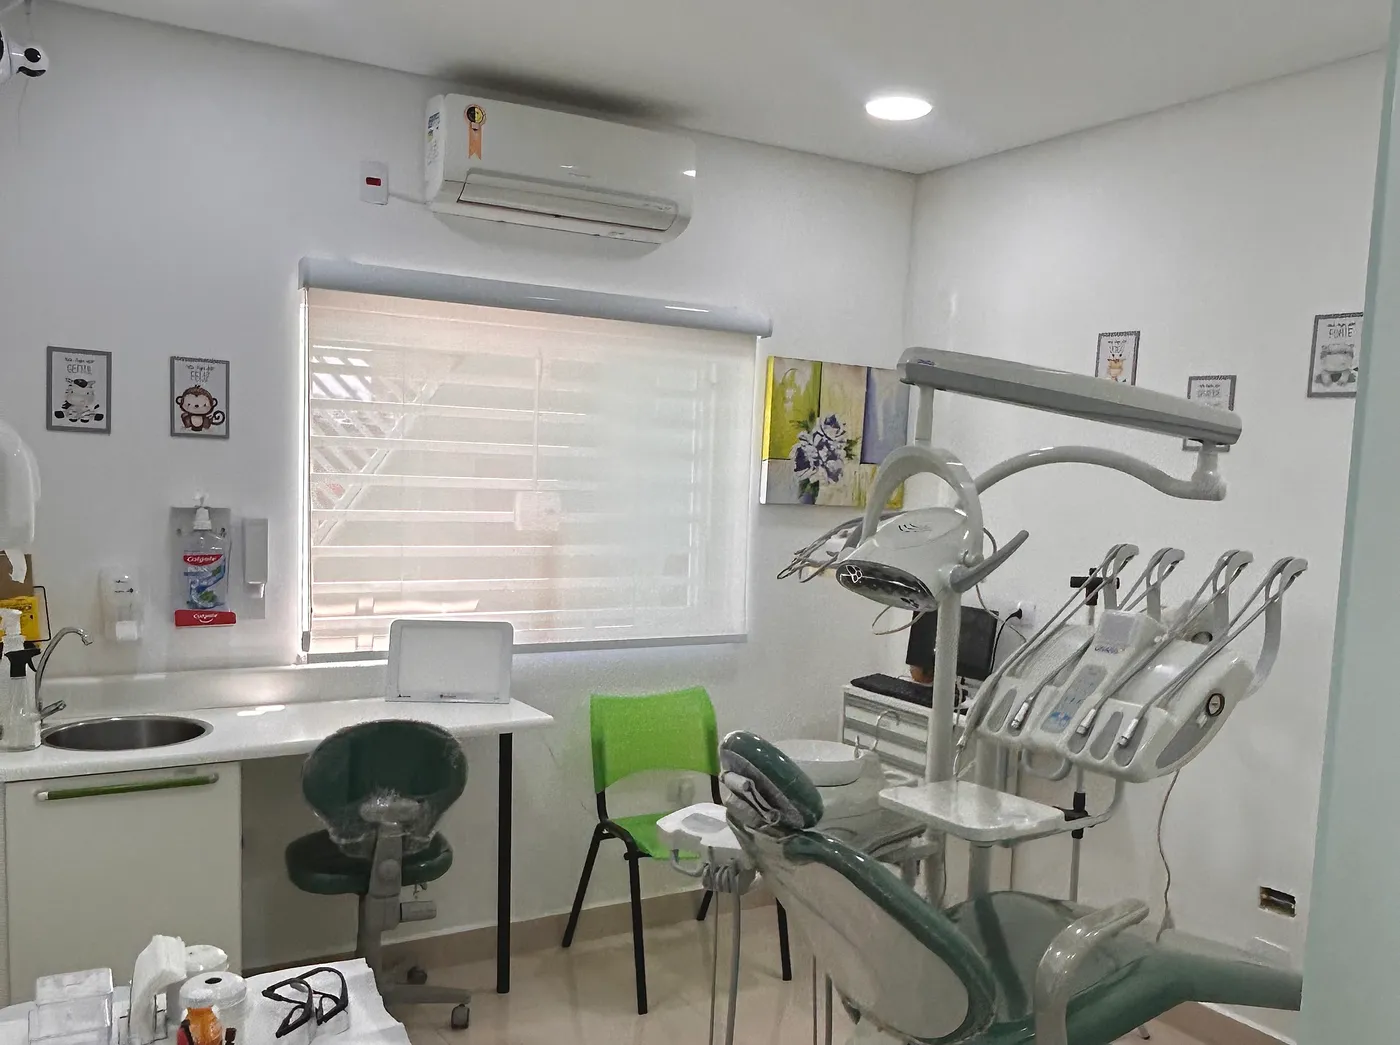
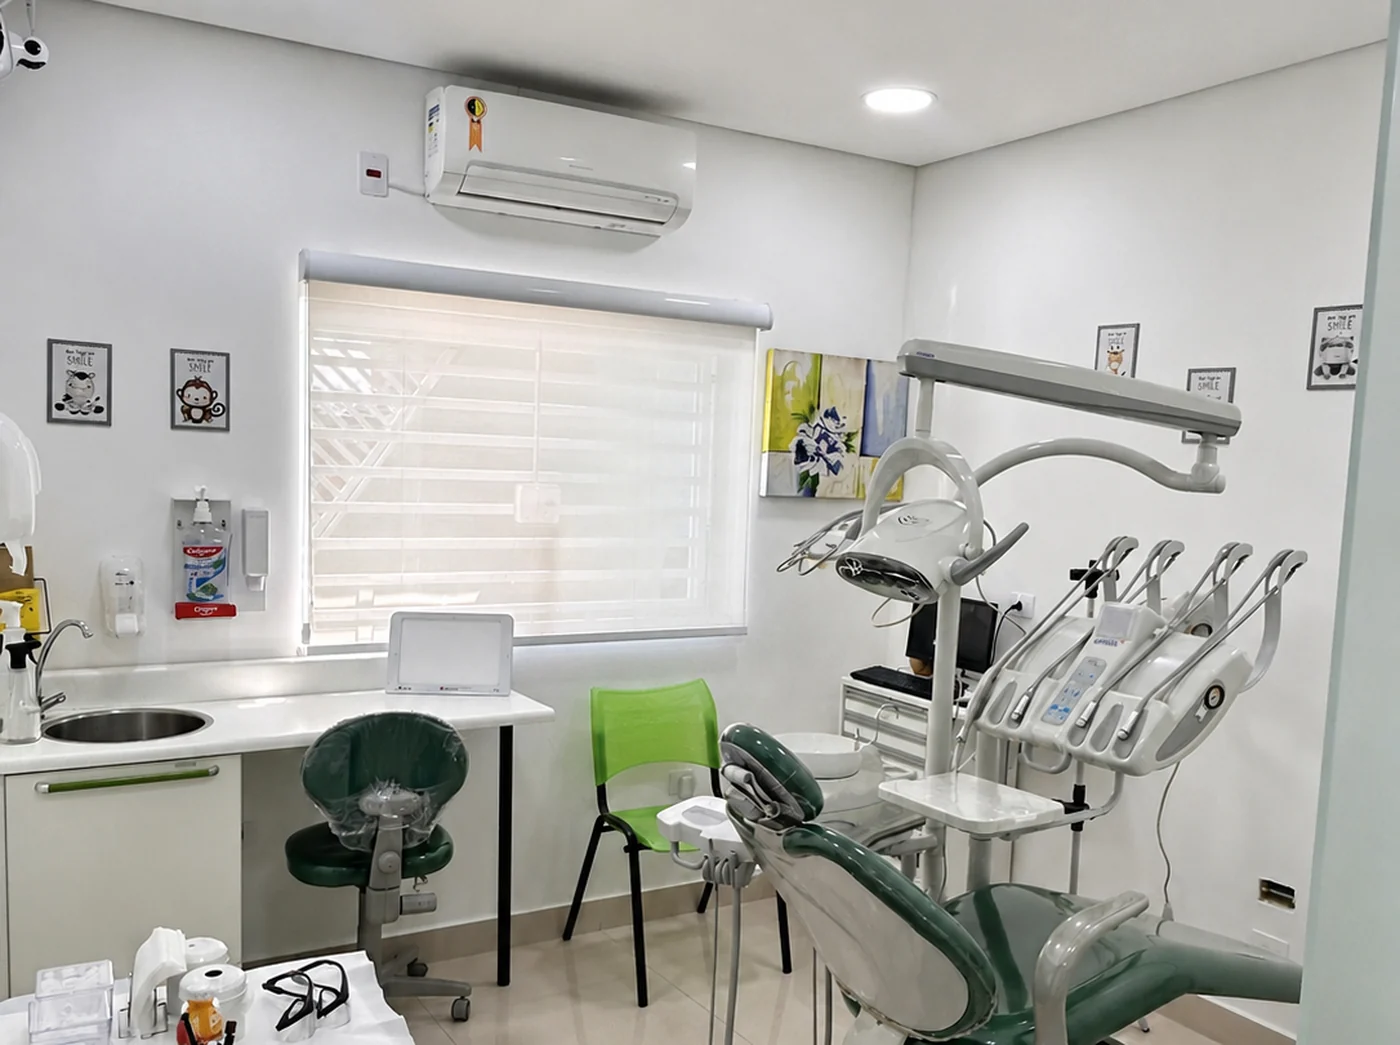
Substitui as 6 imagens dos ambientes e corrige o CRO da responsável técnica
As 6 fotos dos ambientes deram lugar às versões geradas por IA das mesmas
cenas, enviadas pela clínica. Mesmo enquadramento, mesmas dimensões de
arquivo — nada muda no layout. Sumiram a fiação da rua, o céu ficou uniforme
e a iluminação, homogênea.

CRO DA RESPONSÁVEL TÉCNICA

Ao ler a placa da fachada para conferir as imagens, apareceu o problema mais
sério desta rodada: o site publicava CROSP 78.159 no rodapé das 9 rotas,
mas a placa da própria clínica diz CROSP 75.159. Ampliei 8x na foto original
(jp-clinica-odontologica-6.jpg) e depois a imagem nova confirmou o mesmo
número. Corrigido para 75.159 e marcado em jp.ts para a clínica confirmar no
registro do CRO-SP — o CFO exige que esse número esteja correto.

A PRIMEIRA GERAÇÃO DA FACHADA FOI DESCARTADA

Ela trazia, sob o nome da responsável técnica, um registro inventado:
"CRO/PI 1002 3889" — UF de outro estado e número inexistente. Cheguei a
remover a linha por composição, mas a segunda geração enviada já vinha com
"Responsavel Tecnica CROSP 75.159" correto, então usei essa e joguei fora
o remendo. Ficou registrado no README: imagem gerada com placa, letreiro ou
documento legível tem de ser lida caractere a caractere antes de subir.

README

A afirmação "nenhuma foto de ambiente é gerada por IA" deixou de valer e foi
substituída pela tabela de qual arquivo recria qual foto original. As fotos
reais em 3024x4032 seguem preservadas fora do repositório, em
Downloads/imagens-reais-jp-clinica.zip.
[…]

diff --git a/src/lib/jp.ts b/src/lib/jp.ts
@@ -197,7 +197,16 @@ export type Profissional = {
 export const EQUIPE: Profissional[] = [
   {
     nome: "Dra. Juliana Pelisser",
-    registro: "CROSP 78.159",
+    /**
+     * ⚠ CONFERIR NO REGISTRO DO CRO-SP.
+     *
+     * Estava "78.159" aqui. A placa da fachada da própria clínica diz
+     * "Responsável Técnico CROSP 75.159" — lido com ampliação de 8x na foto
+     * original (jp-clinica-odontologica-6.jpg). Adotei o número da placa por
+     * ser a única evidência que temos, mas quem confirma é a clínica: este
+     * campo sai no rodapé das 9 rotas e o CFO exige que esteja correto.
+     */
+    registro: "CROSP 75.159",
     papel: "Responsável técnica",
   },
 

diff --git a/README.md b/README.md
@@ -108,17 +108,34 @@ Nenhuma seção repete `mx-auto max-w-[1320px] px-5 md:px-8 xl:px-10`. Se alguma
 
 Isto não é detalhe de implementação. É uma clínica de saúde real e a publicidade odontológica é regulada (**Resolução CFO 196/2019**).
 
-| Elemento                | Origem                                                                                        |
-| ----------------------- | --------------------------------------------------------------------------------------------- |
-| Fotos da clínica        | **Fotos da própria clínica** — fachada, consultórios, esterilização, equipo, quadro da missão |
-| Texto dos depoimentos   | **Avaliações reais do Google**, com o nome como aparece lá                                    |
-| Nota e volume           | **4,5★ · 176 avaliações**, conferido na ficha do Google                                       |
-| Missão                  | **Transcrita do quadro** afixado na parede da clínica                                         |
-| 7 dos 8 vídeos          | Acervo da própria clínica                                                                     |
-| Vídeo de clareamento    | Pexels (licença livre para uso comercial)                                                     |
-| **Retratos de pessoas** | **Fictícios** — ver abaixo                                                                    |
+| Elemento                | Origem                                                                      |
+| ----------------------- | --------------------------------------------------------------------------- |
+| Imagens dos ambientes   | **Versões geradas por IA** a partir das fotos reais da clínica — ver abaixo |
+| Texto dos depoimentos   | **Avaliações reais do Google**, com o nome como aparece lá                  |
+| Nota e volume           | **4,5★ · 176 avaliações**, conferido na ficha do Google                     |
+| Missão                  | **Transcrita do quadro** afixado na parede da clínica                       |
+| 7 dos 8 vídeos          | Acervo da própria clínica                                                   |
+| Vídeo de clareamento    | Pexels (licença livre para uso comercial)                                   |
+| **Retratos de pessoas** | **Fictícios** — ver abaixo                                                  |
 
-Nenhuma foto de ambiente, procedimento ou documento é gerada por IA nem vem de banco de imagens fazendo passar por real.
+### As imagens dos ambientes são recriações por IA
+
+A clínica optou por substituir as 6 fotos reais por versões geradas por IA das **mesmas cenas** — mesma fachada, mesmos consultórios, mesmo equipo, mesma sala de esterilização. O que muda é a limpeza da imagem: sumiram a fiação da rua, o céu ficou uniforme, a iluminação ficou homogênea.
+
+| Arquivo                 | Recriação de                    |
+| ----------------------- | ------------------------------- |
+| `fachada.webp`          | `jp-clinica-odontologica-6.jpg` |
+| `consultorio-1.webp`    | `jp-clinica-odontologica-5.jpg` |
+| `consultorio-wide.webp` | `jp-clinica-odontologica-5.jpg` |
+| `consultorio-2.webp`    | `jp-clinica-odontologica.jpg`   |
+| `esterilizacao.webp`    | `jp-clinica-odontologica-3.jpg` |
+| `equipamento.webp`      | `jp-clinica-odontologica-2.jpg` |
+
+As fotos originais em 3024×4032 estão preservadas fora do repositório (`Downloads/imagens-reais-jp-clinica.zip`).
+
+> **Leia a placa com zoom antes de subir qualquer fachada nova.** A primeira geração da fachada trazia, sob o nome da responsável técnica, um registro inventado: **"CRO/PI 1002 3889"** — UF de outro estado e número inexistente. Foi descartada. A que está no ar traz `Responsavel Tecnica CROSP 75.159`, igual à placa real, conferido com ampliação de 8×.
+>
+> Modelos de imagem erram texto com naturalidade, e um CRO falso na publicidade de uma clínica é infração ao CFO. Placa, letreiro, diploma ou qualquer documento legível numa imagem gerada tem de ser lido caractere a caractere.
 
 ### ⚠ As 8 pessoas fictícias
 
